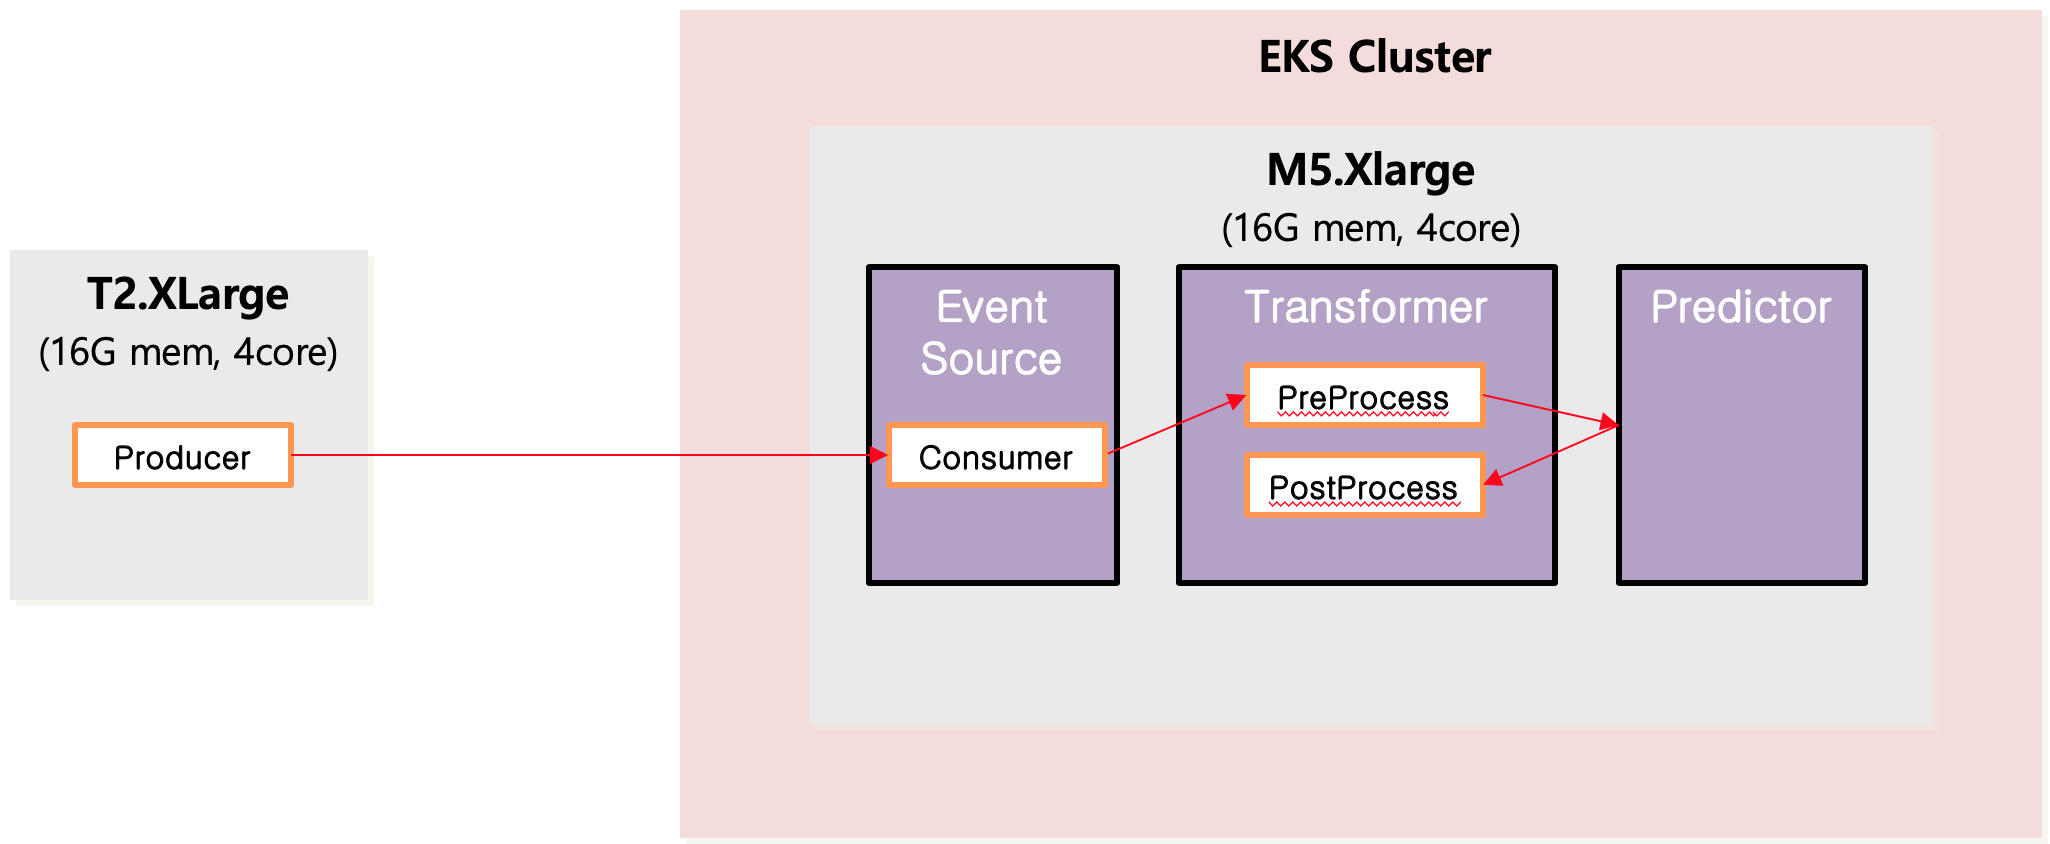
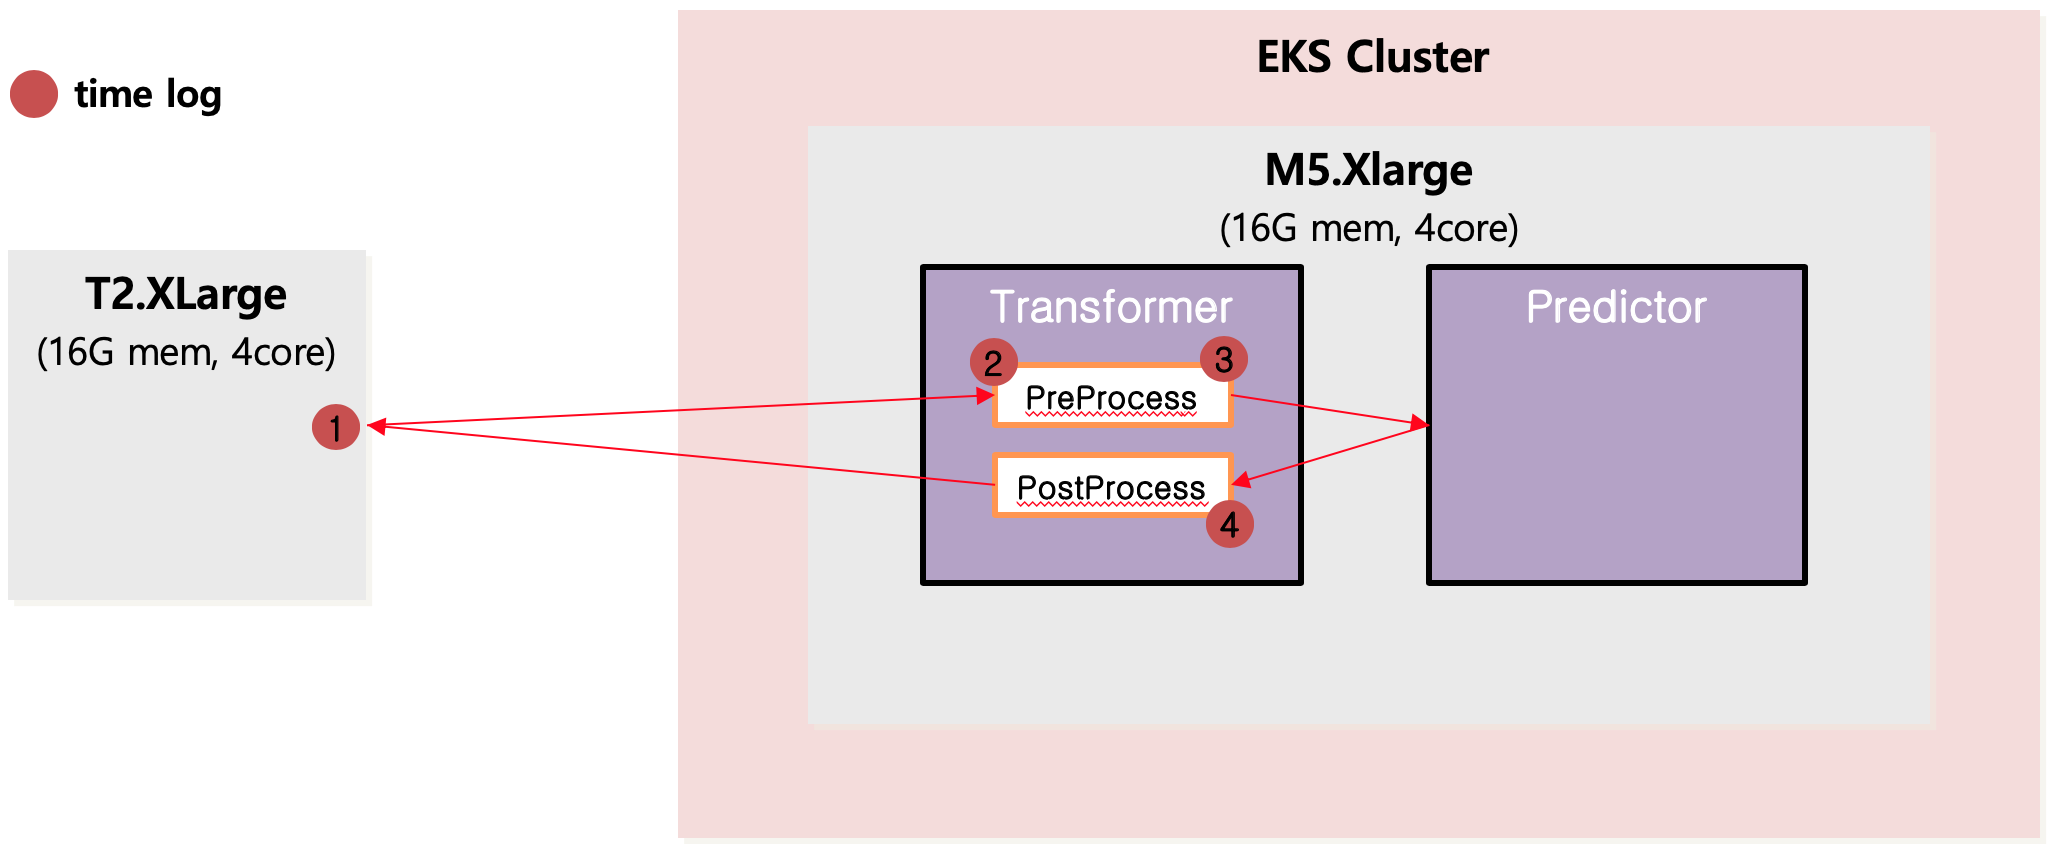
20200628_3

diff --git a/eks/samples/kafka/README.md b/eks/samples/kafka/README.md
@@ -7,20 +7,84 @@
 * 이미지 전송 방식 : Curl, Kafka
 * 측정 항목 : 구간별 도착 및 걸린 시간(Unix Time)
 ## 테스트 조건
-### 환경 구성
-* AWS us-east-1
-* Curl ![architecture](https://github.com/mokpolar/kubeflow/tree/master/eks/samples/kafka/images/arch2.png)
-* Kafka ![architecture](https://github.com/mokpolar/kubeflow/tree/master/eks/samples/kafka/images/arch1.png)
-* 전송 대상 이미지
-    * JPG 파일 > JSON 변환 (변환 시 사이즈 변화)
+* 환경 구성
+    * AWS us-east-1
+        * Curl ![](./images/arch1.png)
+        * Kafka ![](./images/arch2.png)
+
+* 전송 이미지
+    * JPG 파일 > Base64 JSON 변환
         * 1.1MB > 1.5MB
         * 3.3MB > 4.6MB
         * 4.7mB > 6.4MB
         * 10.2MB > 13.9MB
 
+
+
 ## 테스트
+* Curl
+```sh
+#!/bin/bash
+StartTime=$(date +%s%N)
 
-* 테스트 프로그램
+CLUSTER_IP=a0b2f82d28e1e4f93ab7cab22a34bf49-1330092172.us-east-1.elb.amazonaws.com
+SERVICE_HOSTNAME=simple-mobilenet-transformer.default.example.com
+INPUT_PATH=@./1mb.json
+MODEL_NAME=simple-mobilenet-transformer
+curl -v -H "Host: ${SERVICE_HOSTNAME}" http://$CLUSTER_IP/v1/models/$MODEL_NAME:predict -d $INPUT_PATH
 
-## 테스트 결과 및 적용 시 고려사항
+EndTime=$(date +%s%N)
+echo ""
+echo "scale=3;$StartTime/1000000000" | bc
+echo "scale=3;($EndTime-$StartTime)/1000000000" | bc
+echo "scale=3;$EndTime/1000000000" | bc
+```
+* Kafka
+```sh
+#!/bin/bash
+StartTime=$(date +%s%N)
+./kafka_2.12-2.5.0/bin/kafka-console-producer.sh --broker-list localhost:9092 --topic mobilenet --producer.config ./kafka_2.12-2.5.0/config/producer.properties < 1mb.json
+EndTime=$(date +%s%N)
+echo ""
+echo "scale=3;$StartTime/1000000000" | bc
+echo "scale=3;$EndTime/1000000000" | bc
+```
 
+## 테스트 결과
+### Curl
+* unix time
+
+|Size|1|2|3|4|
+|:--:|:--:|:--:|:--:|:--:|
+|1.1MB|1593068399.853|1593068399.898|1593068400.043|1593068400.276|
+|4.6MB|1593068690.802|1593068690.936|1593068691.225|1593068691.455|
+|6.4MB|1593068896.804|1593068897.041|1593068897.752|1593068898.053|
+|13.9MB|1593069101.446|1593069102.001|1593069103.569|1593069103.85|
+
+* seconds
+
+|Size|2-1|3-2|4-3|4-1|
+|:--:|:--:|:--:|:--:|:--:|
+|1.1MB|0.045|0.007|0.145|0.423|
+|4.6MB|0.134|0.019|0.289|0.653|
+|6.4MB|0.237|0.023|0.711|1.249|
+|13.9MB|0.555|0.050|1.568|2.404|
+
+### Kafka
+* unix time
+
+|Size|1|2|3|4| 
+|:--:|:--:|:--:|:--:|:--:|
+|1.5MB|1593068580.163|1593068581.711|1593068581.843|1593068582.151|
+|4.6MB|1593068694.818|1593068696.508|1593068696.818|1593068697.056|
+|6.4MB|1593068902.721|1593068904.522|1593068905.2|1593068905.465|
+|13.9MB|1593069107.124|1593069109.724|1593069111.241|1593069111.552|
+
+* seconds
+
+|Size|2-1|3-2|4-3|4-1|
+|:--:|:--:|:--:|:--:|:--:|
+|1.1MB|1.548|0.007|0.132|1.988|
+|4.6MB|1.690|0.020|0.310|2.238|
+|6.4MB|1.801|0.033|0.678|2.744|
+|13.9MB|2.600|0.054|1.517|4.428|
